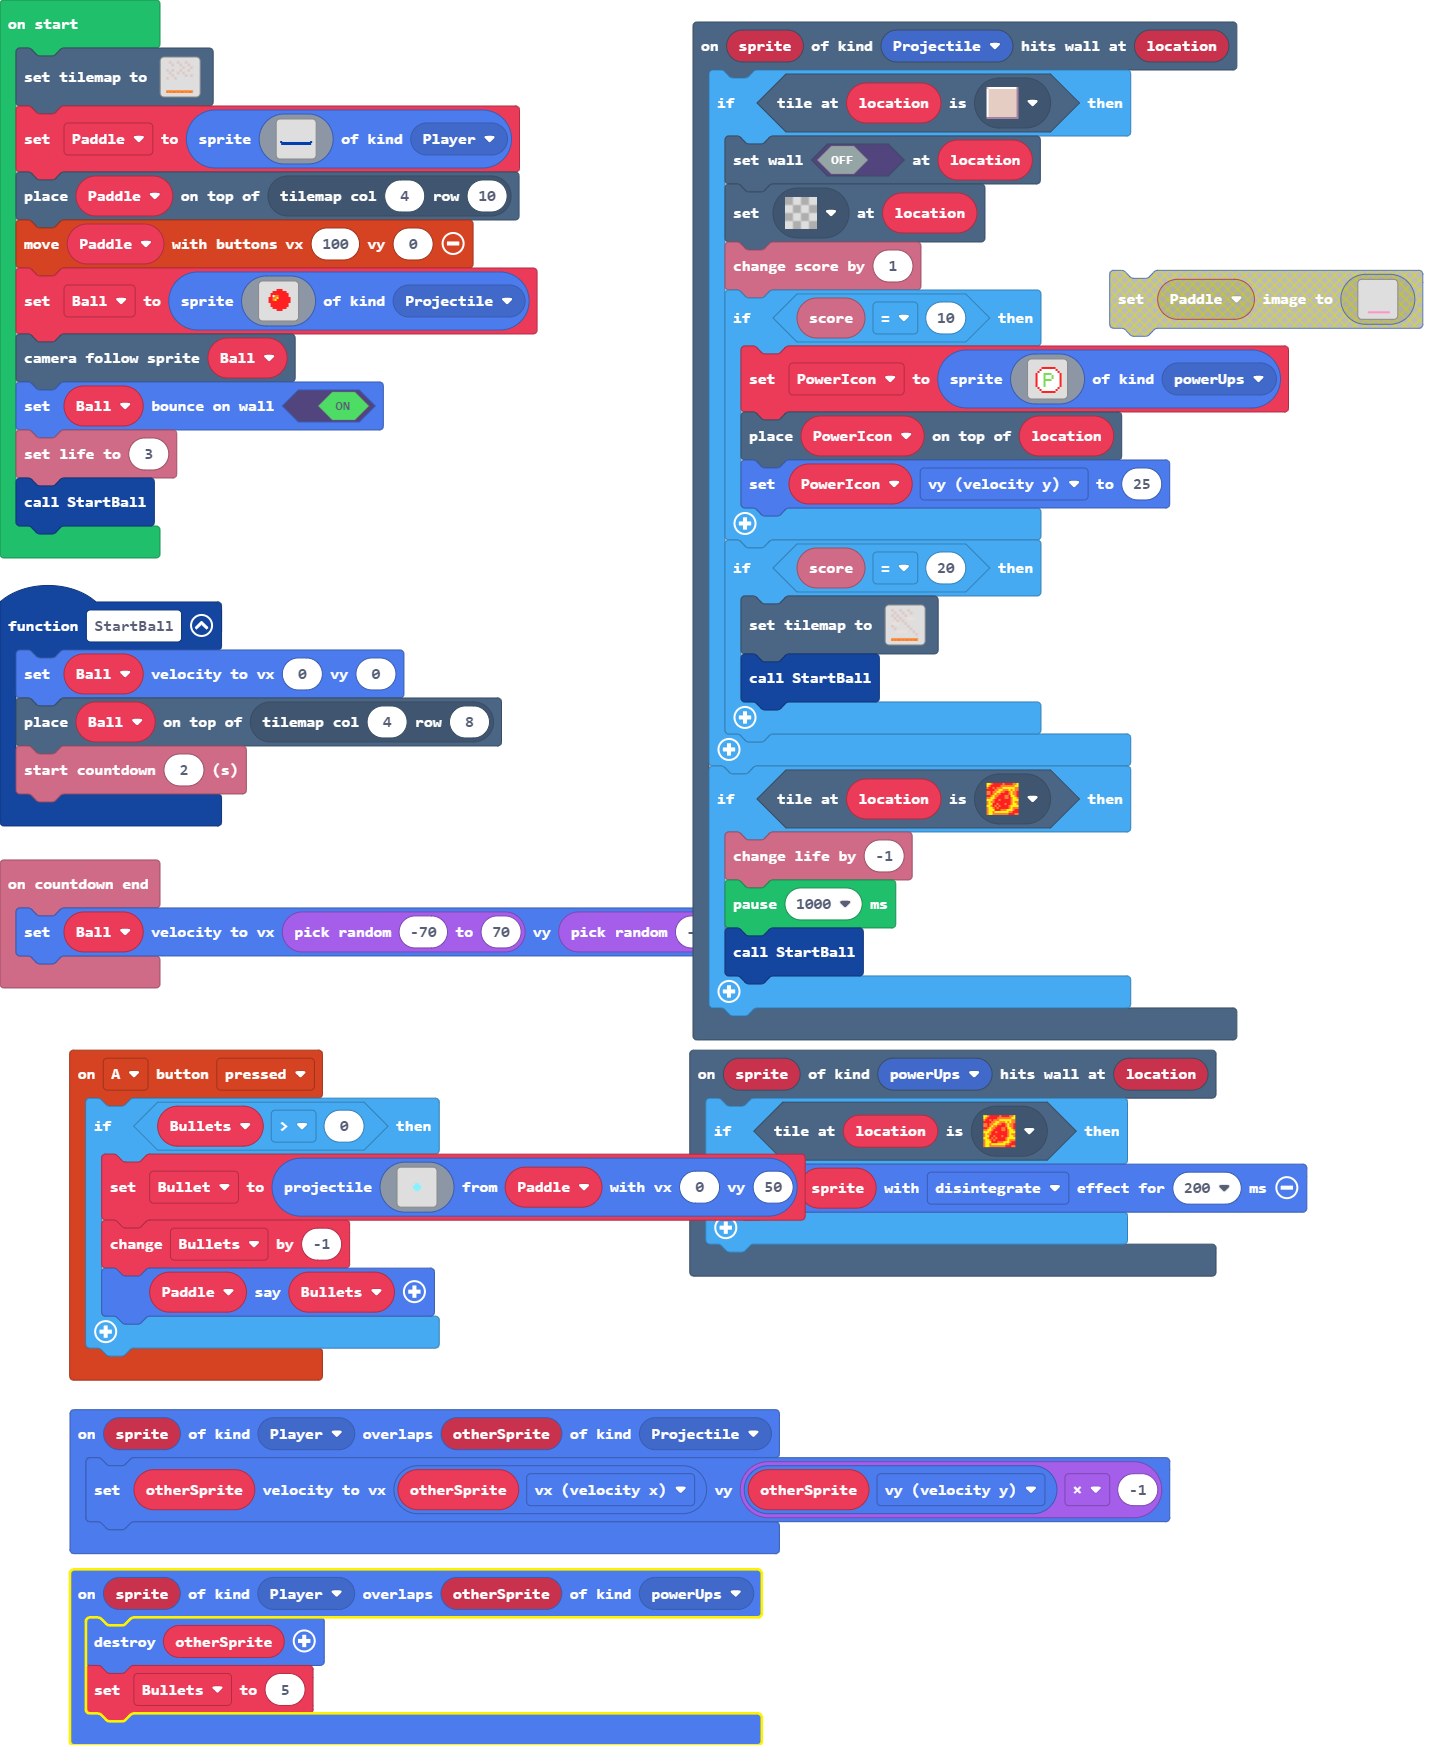
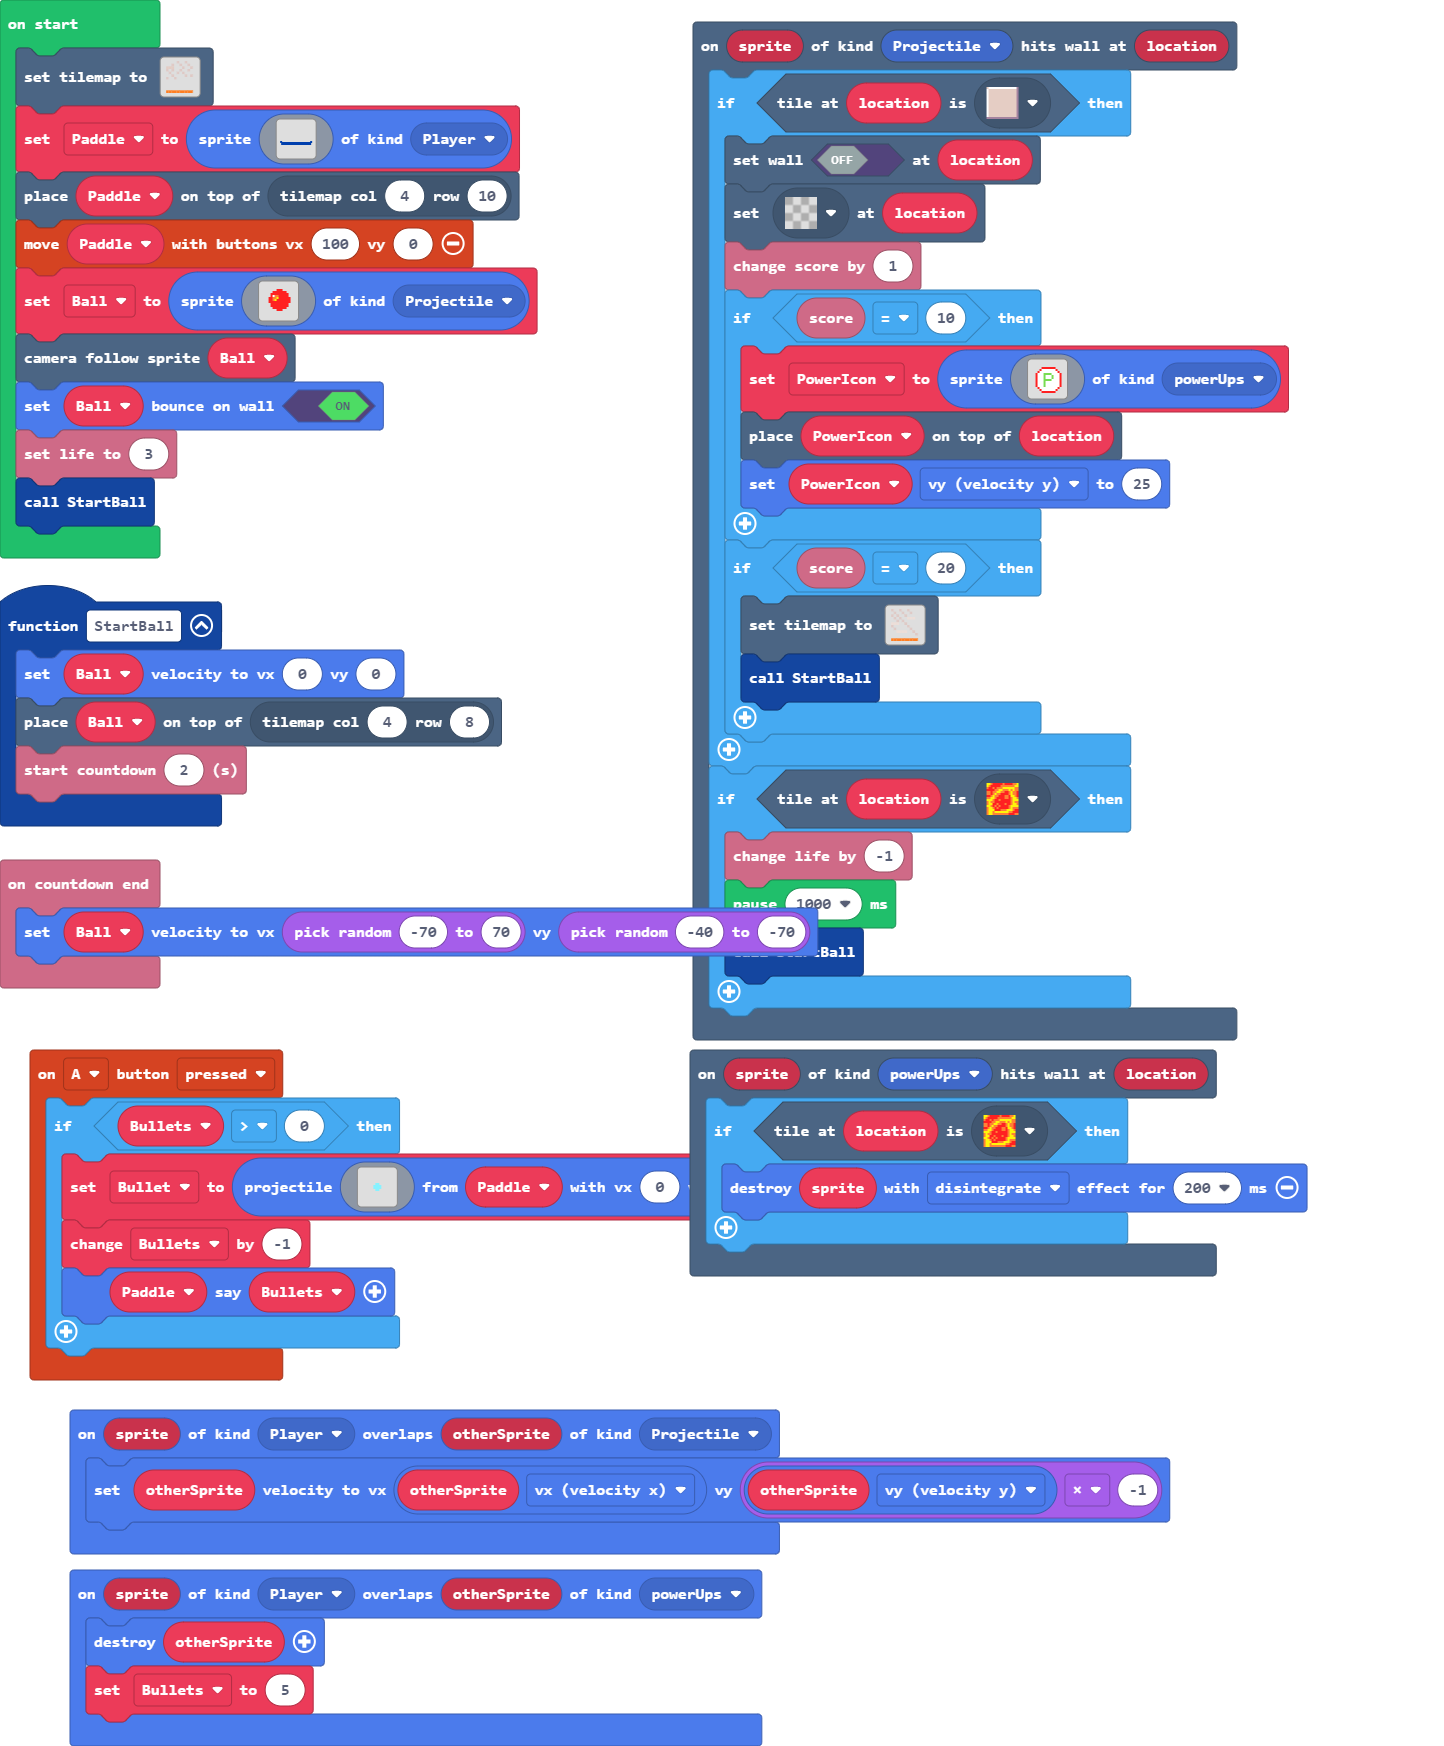
Update main.blocks, main.ts, tilemap.g.jres, tilemap.g.ts, images.g.jres, images.g.ts

diff --git a/tilemap.g.ts b/tilemap.g.ts
@@ -24,21 +24,6 @@ namespace myTiles {
 . . . . . . . . . . . . . . . . 
 . . . . . . . . . . . . . . . . 
 `, [myTiles.transparency16], TileScale.Sixteen);
-            case "level1":
[1 lines of base64/hex data omitted]
-. 2 . . 2 . . 2 . . 
-. . 2 . . 2 . . 2 . 
-. . . . . . 2 . . 2 
-2 . 2 . . 2 . . 2 . 
-. 2 . . 2 . 2 . . . 
-. . 2 . . . . 2 . 2 
-2 . . 2 . . . . . . 
-. . . . . . . . . . 
-. . . . . . . . . . 
-. . . . . . . . . . 
-. . . . . . . . . . 
-2 2 2 2 2 2 2 2 2 2 
-`, [myTiles.transparency16,sprites.dungeon.floorLight2,sprites.dungeon.hazardLava0], TileScale.Sixteen);
             case "level3":
[1 lines of base64/hex data omitted]
 2 . . 2 . . 2 . . . 
@@ -92,6 +77,21 @@ namespace myTiles {
 . . . . . . . . . . . . . . . . 
 . . . . . . . . . . . . . . . . 
 `, [myTiles.transparency16], TileScale.Sixteen);
+            case "level1":
[1 lines of base64/hex data omitted]
+. 2 . . 2 . . 2 . . 
+. . 2 . . 2 . . 2 . 
+. . . . . . 2 . . 2 
+2 . 2 . . 2 . . 2 . 
+. 2 . . 2 . 2 . . . 
+. . 2 . . . . 2 . 2 
+2 . . 2 . . . . . . 
+. . . . . . . . . . 
+. . . . . . . . . . 
+. . . . . . . . . . 
+. . . . . . . . . . 
+2 2 2 2 2 2 2 2 2 2 
+`, [myTiles.transparency16,sprites.dungeon.floorLight2,sprites.dungeon.hazardLava0,sprites.castle.tilePath5], TileScale.Sixteen);
         }
         return null;
     })

diff --git a/images.g.ts b/images.g.ts
@@ -75,7 +75,7 @@ namespace myImages {
 . . . . . . . . . . . . . . . . 
 . . . . . . . . . . . . . . . . 
 `;
-            case "image6":return img`
+            case "image5":return img`
 . . . . . . . . . . . . . . . . 
 . . . . . . . . . . . . . . . . 
 . . . . . . . . . . . . . . . . 
@@ -91,42 +91,6 @@ namespace myImages {
 . . . . . . . . . . . . . . . . 
 . . . . . . . . . . . . . . . . 
 . . . 3 3 3 3 3 3 3 3 3 3 3 . . 
-. . . . . . . . . . . . . . . . 
-`;
-            case "image5":return img`
-. . . . . . . . . . . . . . . . 
-. . . . . . . . . . . . . . . . 
-. . . . . 2 2 2 2 2 2 2 . . . . 
-. . . . 2 1 1 1 1 1 1 1 2 . . . 
-. . . 2 1 1 1 1 1 1 1 1 1 2 . . 
-. . 2 1 1 1 7 7 7 7 1 1 1 1 2 . 
-. . 2 1 1 1 7 1 1 1 7 1 1 1 2 . 
-. . 2 1 1 1 7 1 1 1 7 1 1 1 2 . 
-. . 2 1 1 1 7 7 7 7 1 1 1 1 2 . 
-. . 2 1 1 1 7 1 1 1 1 1 1 1 2 . 
-. . 2 1 1 1 7 1 1 1 1 1 1 1 2 . 
-. . 2 1 1 1 7 1 1 1 1 1 1 1 2 . 
-. . . 2 1 1 1 1 1 1 1 1 1 2 . . 
-. . . . 2 1 1 1 1 1 1 1 2 . . . 
-. . . . . 2 2 2 2 2 2 2 . . . . 
-. . . . . . . . . . . . . . . . 
-`;
-            case "image7":return img`
-. . . . . . . . . . . . . . . . 
-. . . . . . . . . . . . . . . . 
-. . . . . . . . . . . . . . . . 
-. . . . . . . . . . . . . . . . 
-. . . . . . . . . . . . . . . . 
-. . . . . . . . . . . . . . . . 
-. . . . . . . 9 9 . . . . . . . 
-. . . . . . 9 9 9 9 . . . . . . 
-. . . . . . 9 9 9 9 . . . . . . 
-. . . . . . . 9 9 . . . . . . . 
-. . . . . . . . . . . . . . . . 
-. . . . . . . . . . . . . . . . 
-. . . . . . . . . . . . . . . . 
-. . . . . . . . . . . . . . . . 
-. . . . . . . . . . . . . . . . 
 . . . . . . . . . . . . . . . . 
 `;
         }

diff --git a/main.ts b/main.ts
@@ -24,7 +24,7 @@ controller.A.onEvent(ControllerButtonEvent.Pressed, function () {
             . . . . . . . . . . . . . . . . 
             . . . . . . . . . . . . . . . . 
             . . . . . . . . . . . . . . . . 
-            `, Paddle, 0, 50)
+            `, Paddle, 0, 100)
         Bullets += -1
         Paddle.say(Bullets)
     }
